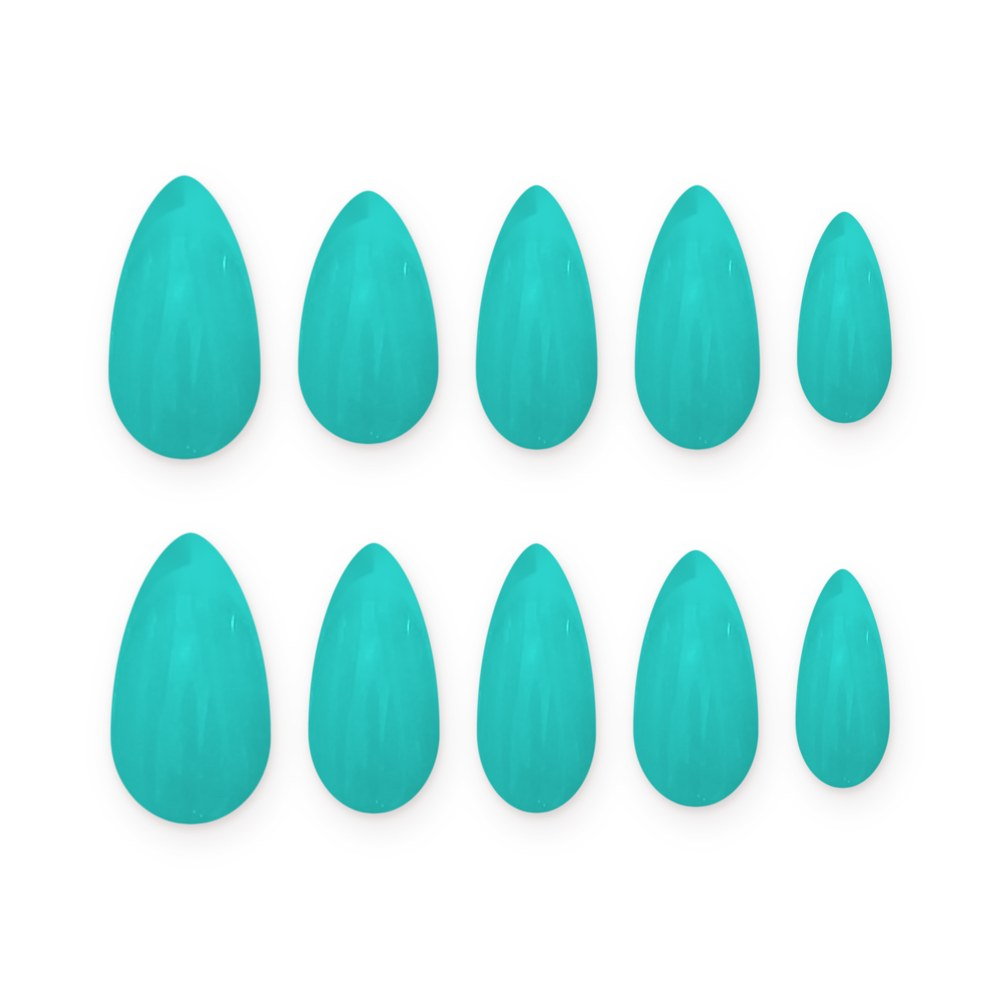
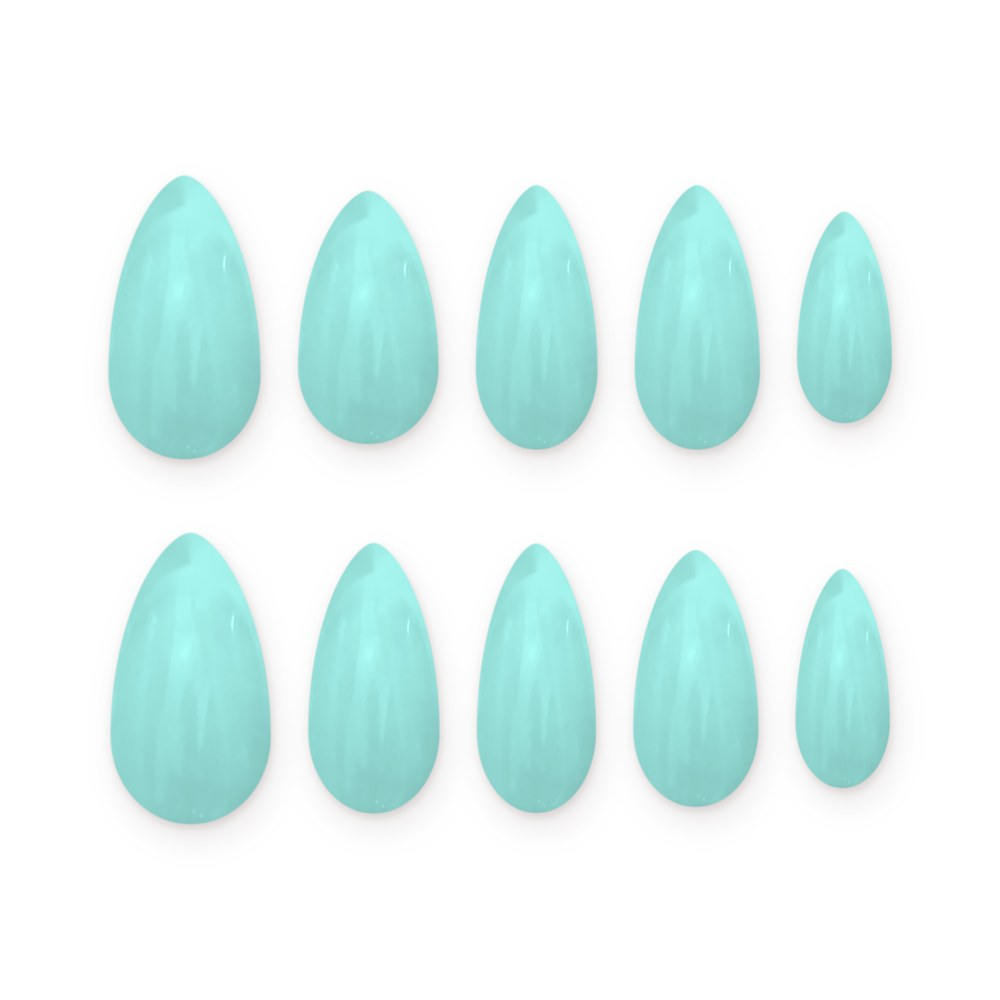
Turquesa más pastel
Claude-Session: https://claude.ai/code/session_0139vD7MK8qAuBV582Hdbfkc

Changed region(s): [[0.093, 0.155, 0.899, 0.465], [0.31, 0.527, 0.899, 0.837], [0.093, 0.527, 0.279, 0.837]]

diff --git a/index.html b/index.html
@@ -186,7 +186,7 @@ footer a{color:#E3D8D4;margin-right:20px}
       <article class="card" >
         <div class="card-img" style="background:#fff"><img src="img/press-on-turquesa.jpg" alt="Uñas press on turquesa almendra" loading="lazy" style="width:100%;height:100%;object-fit:cover"></div>
         <div class="card-head"><h3>Turquesa</h3><p class="price">Consultar precio</p></div>
-        <p class="card-desc">Un turquesa vibrante que ilumina cualquier look.</p>
+        <p class="card-desc">Un turquesa pastel suave y fresco, delicado y luminoso.</p>
         <a class="btn btn-outline" href="https://wa.me/5491123651963?text=%C2%A1Hola%21%20Te%20hablo%20para%20hacerte%20un%20pedido%20de%20press%20on%20%F0%9F%92%85" target="_blank" rel="noopener">Pedir este set</a>
       </article>
       <article class="card" >
